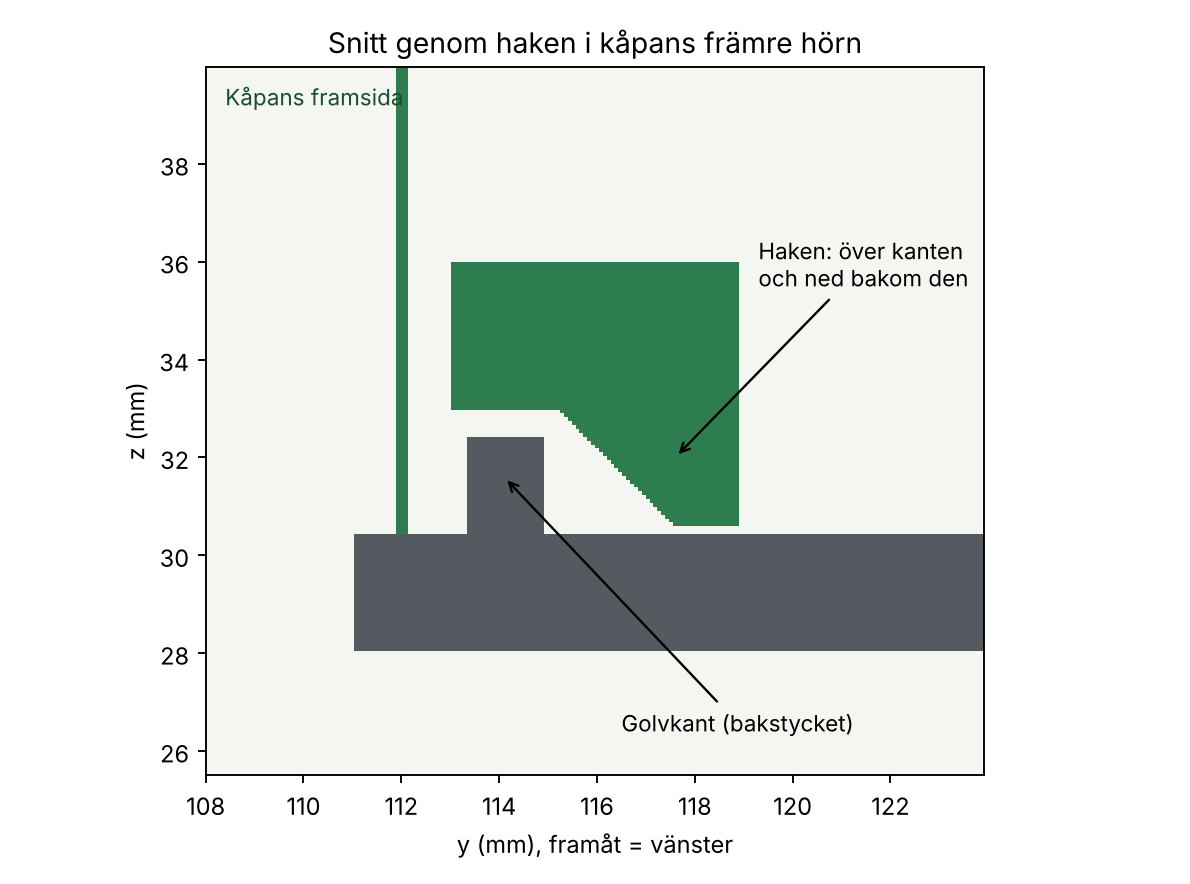
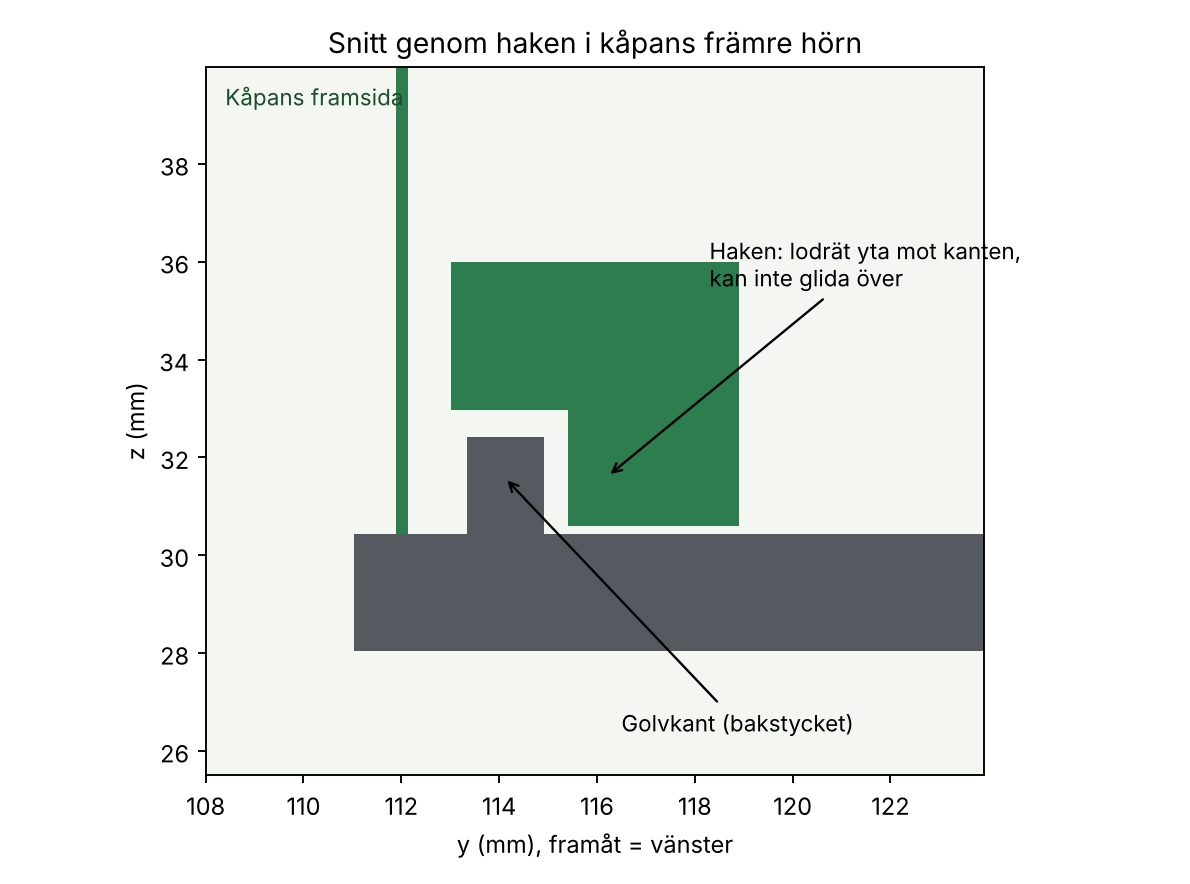
Elektroniklådans kåpa: hakarnas yta mot golvkanten lodrät
En sluttande yta skulle i princip kunna glida över kanten. Spelet
framåt är nu 0,6 mm.

Claude-Session: https://claude.ai/code/session_018xksXR9gb4yYHdCGmvWeKU

diff --git a/cad/elektroniklada/src/el_lada.py b/cad/elektroniklada/src/el_lada.py
@@ -162,7 +162,7 @@ def kapa():
     for sd in (-1, 1):
         xo, xi = sd * (XO - TC + 0.01), sd * (xl_in - 0.3 - 2.3)            # från sidoväggen in till benets insida
         body = box(min(xo, xi), max(xo, xi), Y_FRONT + TC - 0.01, yl_in + 4.0, zl + 0.6, zl + 3.6)          # över kanten
-        leg = ext_yz(Polygon([(yl_in + 0.3, zl + 0.6), (yl_in + 4.0, zl + 0.6), (yl_in + 4.0, ZF + 0.2), (yl_in + 2.7, ZF + 0.2)]), min(sd * (xl_in - 0.3), xi), max(sd * (xl_in - 0.3), xi))   # ned bakom kanten, 45 grader fram (skrivs ut utan stöd)
+        leg = ext_yz(Polygon([(yl_in + 0.5, zl + 0.6), (yl_in + 4.0, zl + 0.6), (yl_in + 4.0, ZF + 0.2), (yl_in + 0.5, ZF + 0.2)]), min(sd * (xl_in - 0.3), xi), max(sd * (xl_in - 0.3), xi))   # ned bakom kanten, lodrät yta mot kanten (kan inte glida över); liten överhäng ca 2 x 2 mm i utskriften
         hooks += [body, leg]
     m = U([m, fin, dam, gus, rib] + hooks)
     return clean(D(m, cuts))
